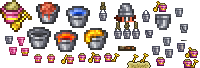
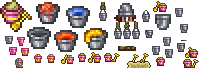
Added decorative chum bucket;

Changed region(s): [[0.06, 0.8529, 0.12, 1.0]]

diff --git a/Content/Tiles/Furniture/ChumBucket.cs b/Content/Tiles/Furniture/ChumBucket.cs
@@ -1,0 +1,45 @@
+using Microsoft.Xna.Framework;
+using Terraria;
+using Terraria.DataStructures;
+using Terraria.Enums;
+using Terraria.ID;
+using Terraria.ModLoader;
+using Terraria.ObjectData;
+
+namespace Funrniture.Content.Tiles.Furniture
+{
+    public class ChumBucket : ModTile
+    {
+        public override void SetStaticDefaults()
+        {
+            Main.tileFrameImportant[Type] = true;
+            Main.tileNoAttach[Type] = true;
+
+            TileObjectData.newTile.CopyFrom(TileObjectData.Style1x1);
+            TileObjectData.newTile.CoordinateHeights = [
+                20
+            ];
+            TileObjectData.newTile.DrawYOffset = -2;
+            TileObjectData.newTile.AnchorBottom = new AnchorData(AnchorType.SolidTile | AnchorType.SolidWithTop | AnchorType.Table, TileObjectData.newTile.Width, 0);
+            TileObjectData.newTile.LavaDeath = false;
+
+            TileObjectData.addTile(Type);
+
+            AddMapEntry(new Color(216, 83, 60));
+
+            DustType = DustID.Blood;
+            HitSound = new Terraria.Audio.SoundStyle("Terraria/Sounds/Item_167") // Queen Slime Queenly Smash
+            {
+                MaxInstances = 1,
+                PitchRange = (-.5f, .5f),
+                Volume = 1f
+            };
+        }
+
+        public override void SetDrawPositions(int i, int j, ref int width, ref int offsetY, ref int height, ref short tileFrameX, ref short tileFrameY)
+        {
+            height = 20;
+            offsetY = -2;
+        }
+    }
+}

diff --git a/Content/Items/Placeable/Furniture/ChumBucketItem.cs b/Content/Items/Placeable/Furniture/ChumBucketItem.cs
@@ -1,0 +1,24 @@
+using Terraria;
+using Terraria.ID;
+using Terraria.ModLoader;
+
+namespace Funrniture.Content.Items.Placeable.Furniture
+{
+	public class ChumBucketItem : ModItem
+	{
+        public override void SetDefaults() {
+			Item.DefaultToPlaceableTile(ModContent.TileType<Tiles.Furniture.ChumBucket>());
+			Item.width = 16;
+			Item.height = 20;
+			Item.value = 500;
+			Item.UseSound = SoundID.Item167; // Queen Slime Queenly Smash
+		}
+
+		public override void AddRecipes() {
+			CreateRecipe()
+				.AddIngredient(ItemID.ChumBucket)
+                .AddTile(TileID.WorkBenches)
+                .Register();
+		}
+	}
+}
